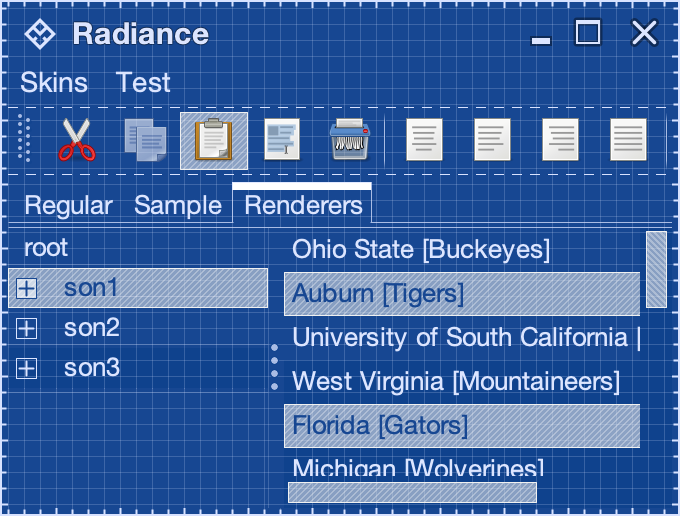
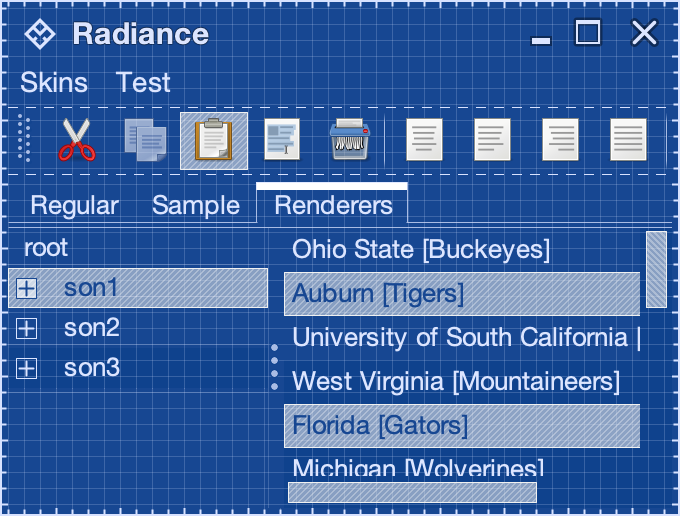
Align tab button insets in Blueprint
For visual consistency across all core skins. For #583

Changed region(s): [[0.0309, 0.3411, 0.6176, 0.4341]]

diff --git a/demos/theming-demo/src/main/java/org/pushingpixels/radiance/demo/theming/main/check/RectangularComponentShaper.java b/demos/theming-demo/src/main/java/org/pushingpixels/radiance/demo/theming/main/check/RectangularComponentShaper.java
@@ -75,11 +75,6 @@ public class RectangularComponentShaper extends ClassicComponentShaper {
     }
 
     @Override
-    public Insets getBaselineInsets(Component c) {
-        return new Insets(0, 0, 0, 0);
-    }
-
-    @Override
     public ShapeSupplier getBaselineShapeSupplier() {
         return RECTANGLE_SHAPE_SUPPLIER;
     }

diff --git a/theming/src/main/java/org/pushingpixels/radiance/theming/api/skin/BlueprintSkin.java b/theming/src/main/java/org/pushingpixels/radiance/theming/api/skin/BlueprintSkin.java
@@ -106,11 +106,6 @@ public class BlueprintSkin extends RadianceSkin {
 		}
 
 		@Override
-		public Insets getBaselineInsets(Component c) {
-			return new Insets(0, 0, 0, 0);
-		}
-
-		@Override
 		public ShapeSupplier getBaselineShapeSupplier() {
 			return RECTANGLE_SHAPE_SUPPLIER;
 		}
